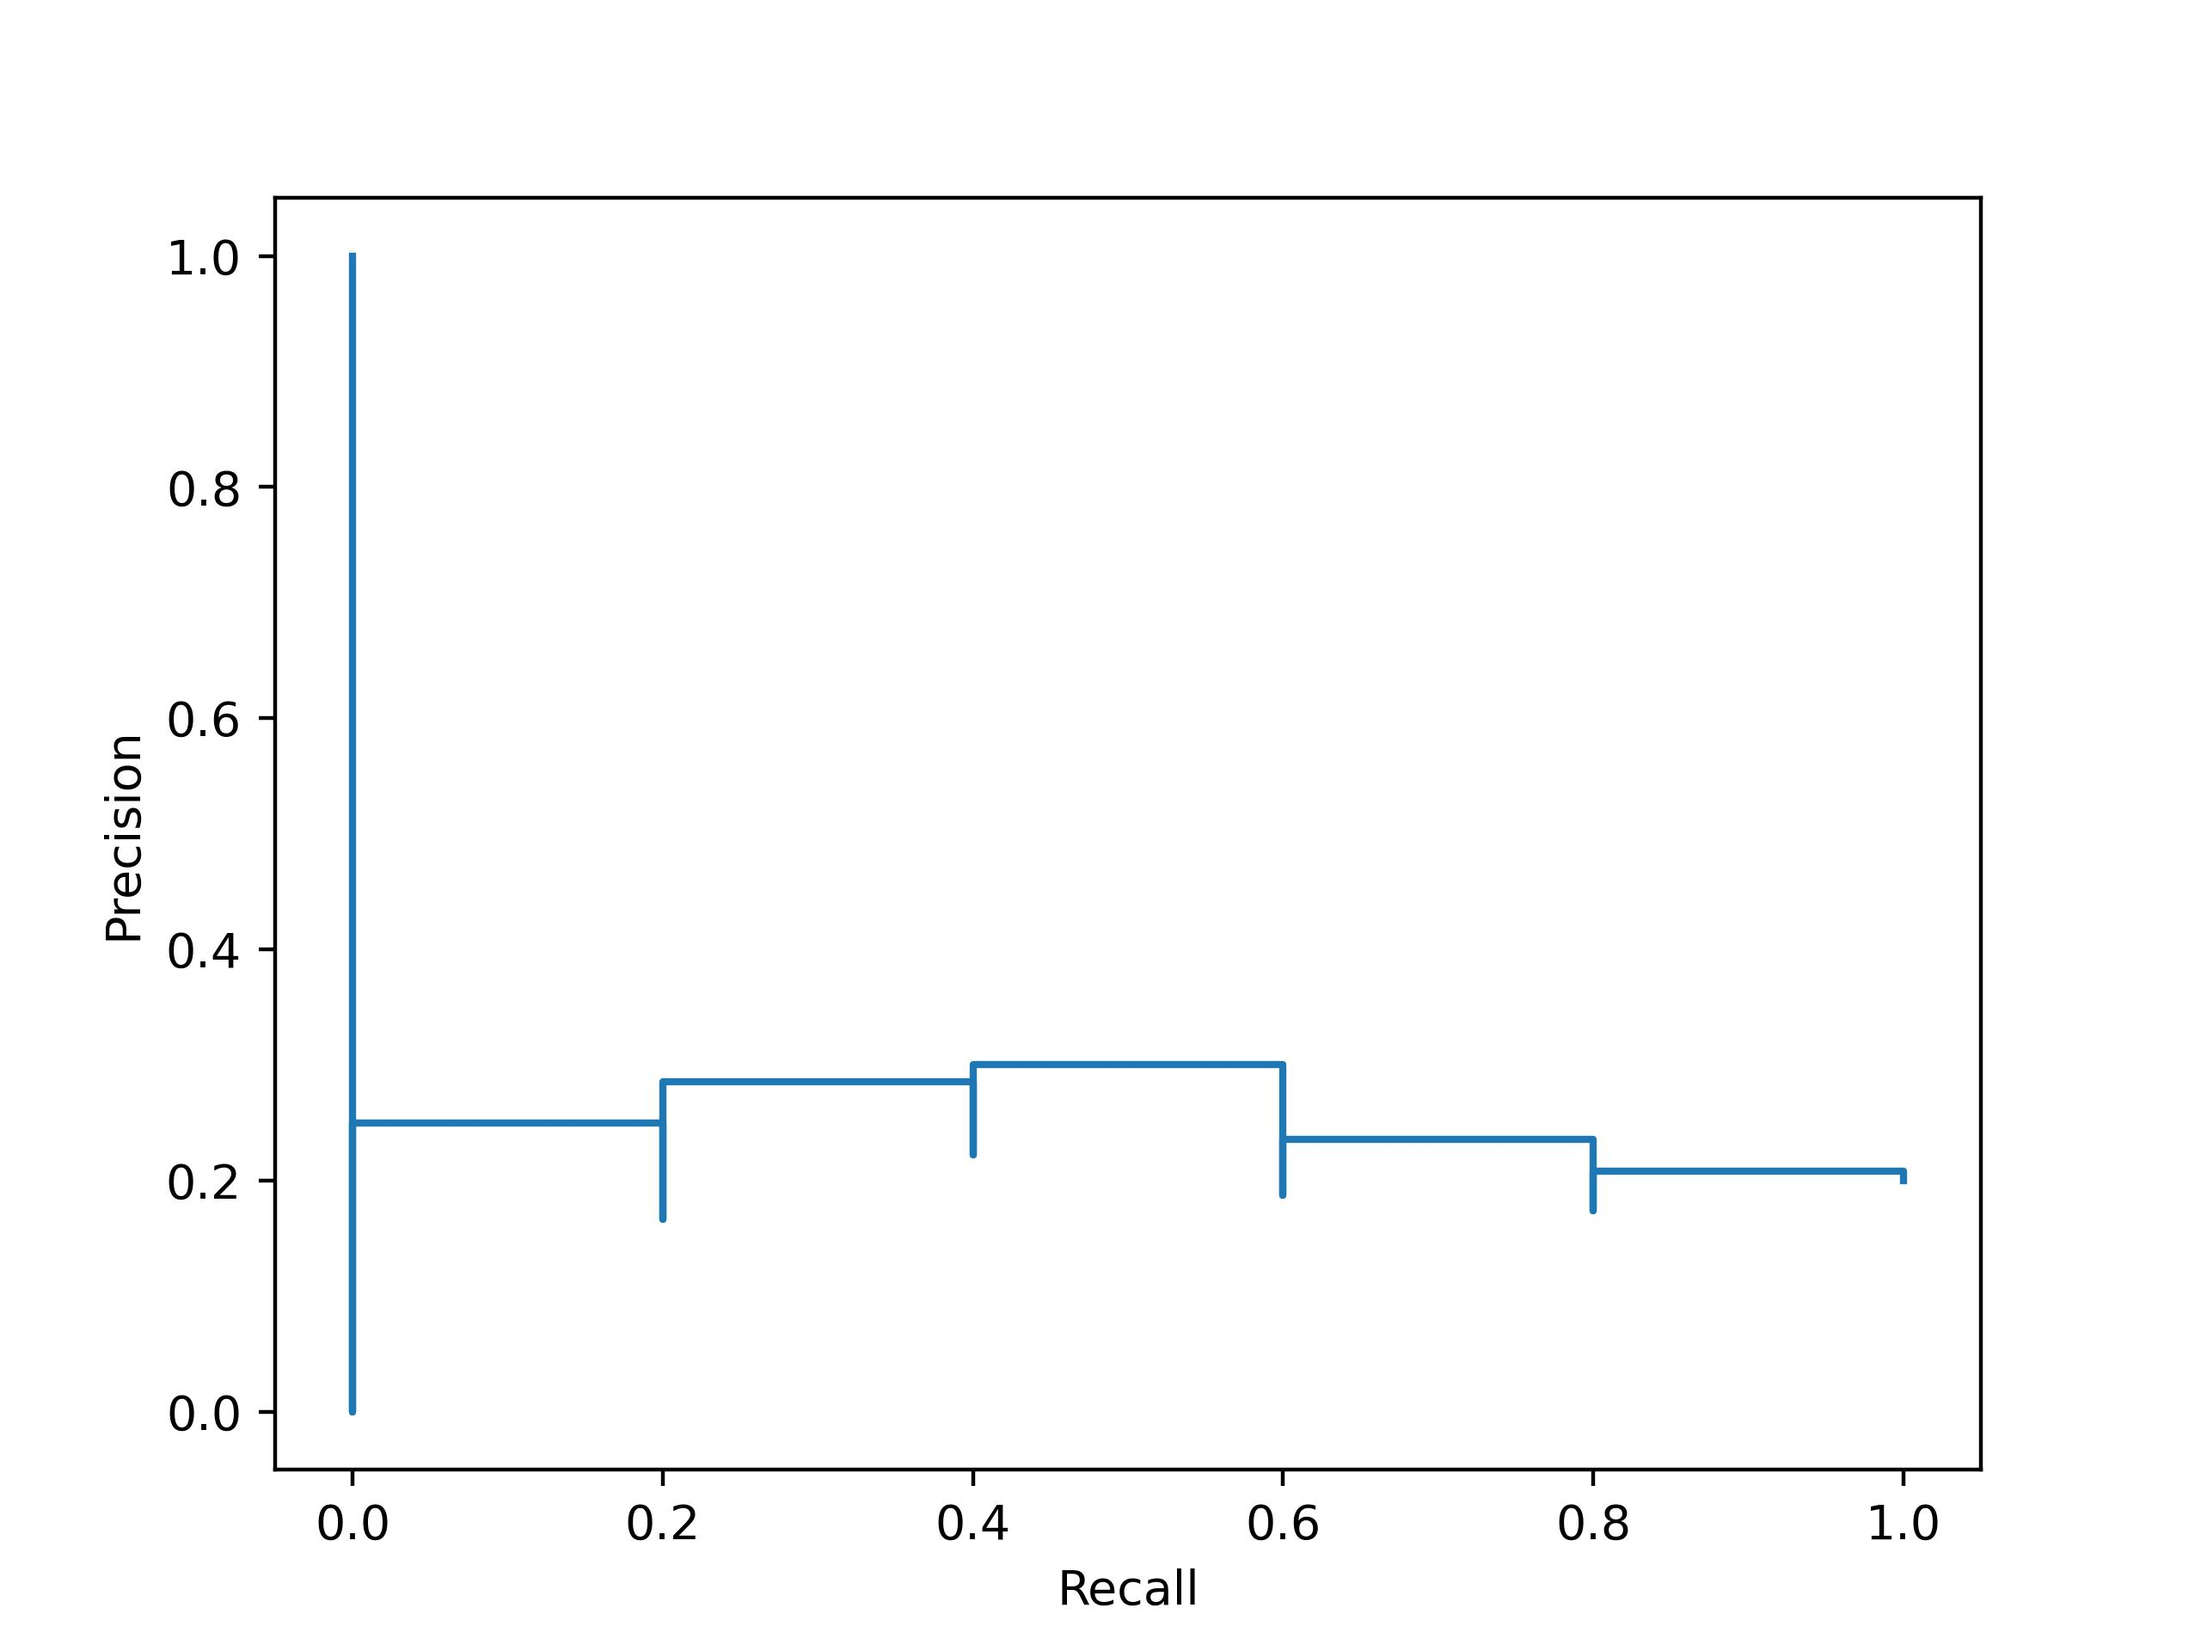
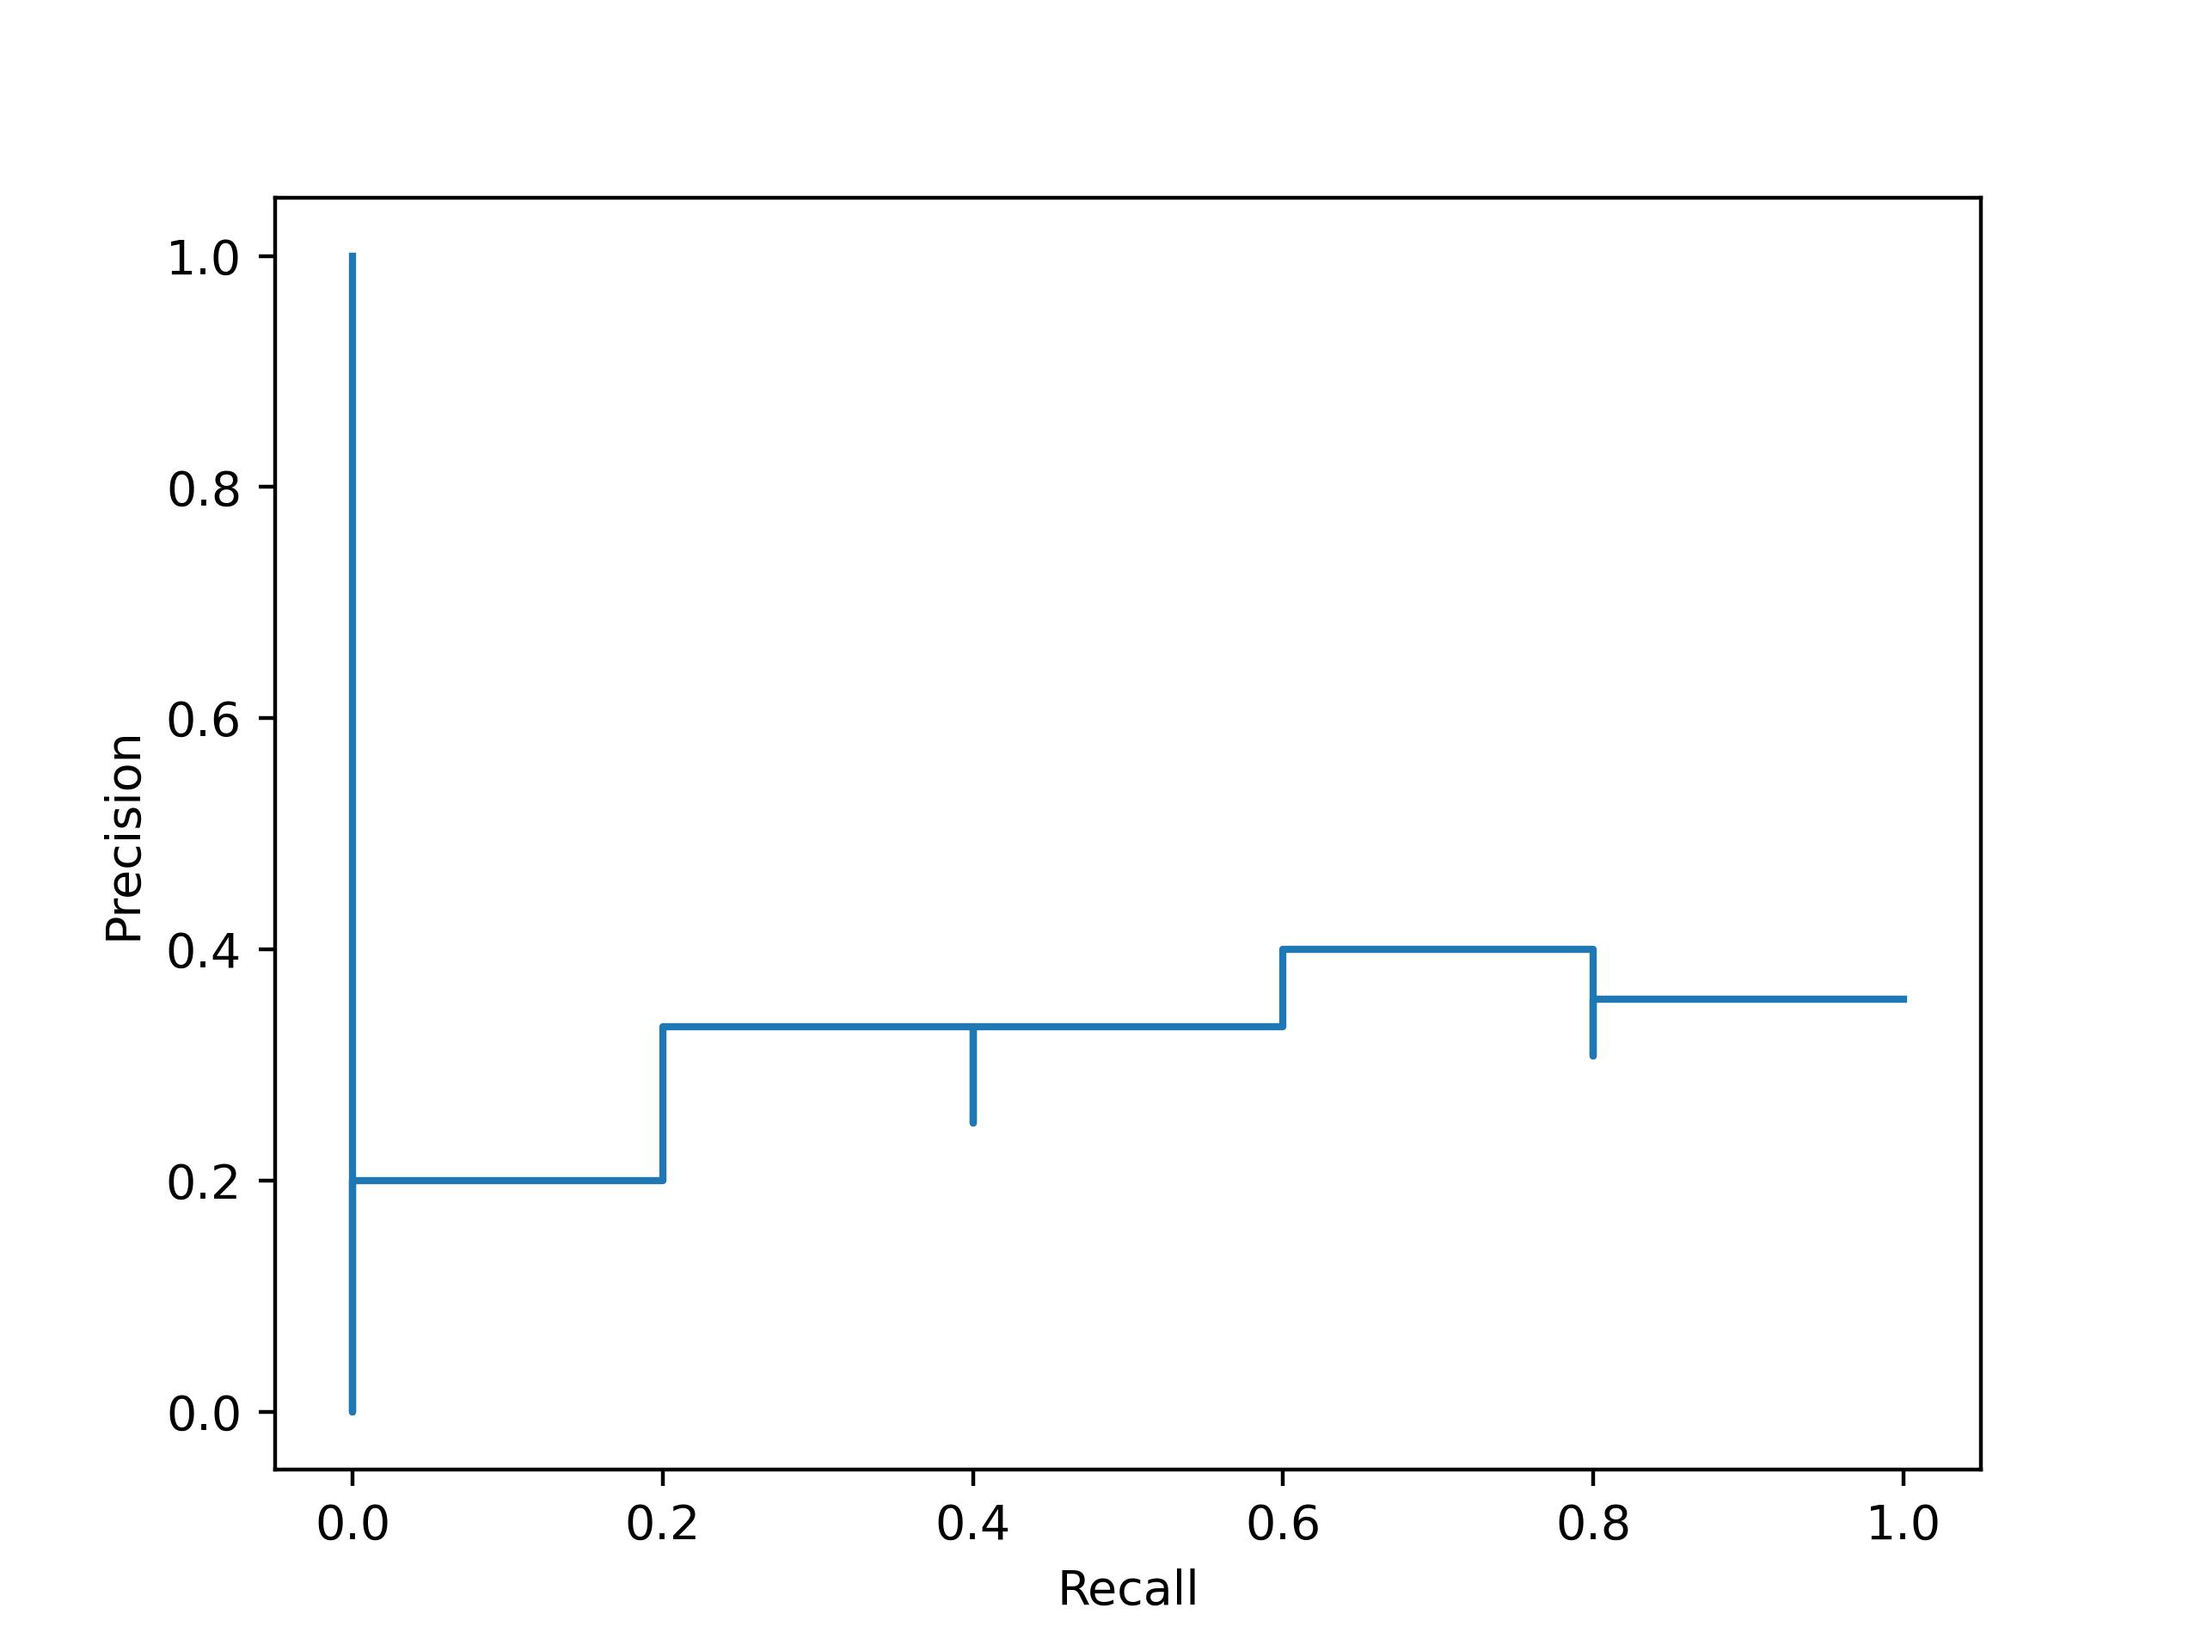
update test func

Changed region(s): [[0.1562, 0.5625, 0.875, 0.7188]]

diff --git a/utils/tools.py b/utils/tools.py
@@ -10,9 +10,9 @@ import matplotlib.pyplot as plt
 
 
 def tuneThresholdfromScore(scores, labels, target_fa):
-    # 运用scikit-learn库来计算roc曲线
+
     fpr, tpr, thresholds = metrics.roc_curve(labels, scores, pos_label=1)
-    # 算出auc
+    # auc
     auc = metrics.auc(fpr, tpr)
 
     plt.plot(fpr, tpr, 'k--', label='ROC (area = {0:.2f})'.format(auc), lw=2)
@@ -21,11 +21,11 @@ def tuneThresholdfromScore(scores, labels, target_fa):
     plt.xlabel('False Positive Rate')
     plt.ylabel('True Positive Rate')
     plt.title('ROC Curve')
-    plt.savefig('./img/ROC.jpg', dpi=400)
+    plt.savefig('./figures/ROC.jpg', dpi=400)
 
     prec, recall, _ = metrics.precision_recall_curve(labels, scores, pos_label=1)
     metrics.PrecisionRecallDisplay(precision=prec, recall=recall).plot()
-    plt.savefig('./img/PR.jpg', dpi=400)
+    plt.savefig('./figures/PR.jpg', dpi=400)
 
     fnr = 1 - tpr
     tunedThreshold = []
@@ -33,7 +33,7 @@ def tuneThresholdfromScore(scores, labels, target_fa):
     for tfa in target_fa:
         idx = numpy.nanargmin(numpy.absolute((tfa - fpr)))  # numpy.where(fpr<=tfa)[0][-1]
         tunedThreshold.append([thresholds[idx], fpr[idx], fnr[idx]])
-    # 根据上面算出的fnr和fpr相减得出一个数组，算出数组中最小的索引(排除NaN)
+
     idxE = numpy.nanargmin(numpy.absolute((fnr - fpr)))
     eer = max(fpr[idxE], fnr[idxE])
 
@@ -55,7 +55,7 @@ def ComputeErrorRates(scores, labels, threshold=0.96695, p=0.01):
 
     metrics.ConfusionMatrixDisplay(confusion_matrix=matrix,
                                    display_labels=['Positive', 'Negative']).plot()
-    plt.savefig('./img/confusion_matrix.jpg', dpi=400)
+    plt.savefig('./figures/confusion_matrix.jpg', dpi=400)
 
     FAR = FP / (FP + TN)
     FRR = FN / (TP + FN)

diff --git a/scenario/test.py b/scenario/test.py
@@ -1,17 +1,40 @@
 import torch
 
 import scenario.module as d2l
-from utils.tools import eval_net
+from utils.tools import get_embedding, eval_net
 # from d2l import torch as d2l
-from models.tdnn_pretrain import Pretrain_TDNN
+from nnet.tdnn.tdnn_pretrain import Pretrain_TDNN
 
-if __name__ == "__main__":
-    model_path = 'net.model'
-    Device = d2l.try_gpu()
 
-    model2 = Pretrain_TDNN(420, 1024, False, not_grad=False)
-    model2.load_parameters(model_path, Device)
-    # model2 = torch.load('net.pth')
+def test_folder(args):
+    model = Pretrain_TDNN(args.people_num,
+                            1024, 
+                            output_embedding=False, 
+                            not_grad=False)
+    model.load_parameters(f"{args.ckpt_dir}/{args.ckpt_name}", args.device)
+    # model = torch.load('net.pth')
 
-    EER, minDCF = eval_net(model2, Device, 10, 10)
+    EER, minDCF = eval_net(model, args.device, 10, 10)
     print(f'EER:{EER:.4f} minDCF:{minDCF:.4f}')
+
+
+def test_two_files(args):
+    model = Pretrain_TDNN(args.people_num,
+                            1024, 
+                            output_embedding=False, 
+                            not_grad=False)
+
+    model.load_parameters(f"{args.ckpt_dir}/{args.ckpt_name}", args.device)
+
+    embedding_1 = get_embedding(model, args.filetest_1, args.device)
+
+    embedding_2 = get_embedding(model, args.filetest_2, args.device)
+
+    print(embedding_1.shape)
+    cosine_metric = torch.nn.CosineSimilarity(dim=1, eps=1e-10)
+    score = cosine_metric(embedding_1, embedding_2)
+
+    score = float(score.detach().cpu())
+    print(score)
+    return score
+

diff --git a/utils/args.py b/utils/args.py
@@ -13,6 +13,11 @@ def get_args():
     # parser.add_argument('--model', type=str, default='SVTR')
     parser.add_argument('--pretrained_path', type=str, default='ckpts/param.model')
     parser.add_argument('--ckpt_dir', type=str, default='ckpts')
+    parser.add_argument('--ckpt_name', type=str, default="model.ckpt")
+
+
+    parser.add_argument("--filetest_1", type=str, default="/home/sangdt/research/voice/Speaker-Verification-TDNN/data/test/AGENT1/ECHVP10-20221118092424410-484_trimmed_split_agent.wav_chunk1.wav")
+    parser.add_argument("--filetest_2", type=str, default="/home/sangdt/research/voice/Speaker-Verification-TDNN/data/test/AGENT1/ECHVP12-20221111153552345-828_trimmed_split_agent.wav_chunk0.wav")
 
 
     parser.add_argument('--mode', type=str, default='train', help="")

diff --git a/scenario/__init__.py b/scenario/__init__.py
@@ -1,1 +1,2 @@
 from .train import train
+from .test import test_two_files, test_folder

diff --git a/README.md b/README.md
@@ -38,6 +38,17 @@ python3 main.py --scenario train --load_pretrained
 python3 main.py --scenario train
 ```
 
+- To test with your dataset, run:
+```bash
+python3 main.py --scenario test_folder
+```
+
+- To test cosin similarity of two files (you should define your threshold for how similar of two files is considered spoken by the same person. I usually recommend in range 0.75 - 0.9):
+```bash
+python3 main.py --scenario test_two_files \
+--filetest_1 path/to/file_1 \
+--filetest_2 path/to/file_2 \
+```
 
 ## Reference
 
